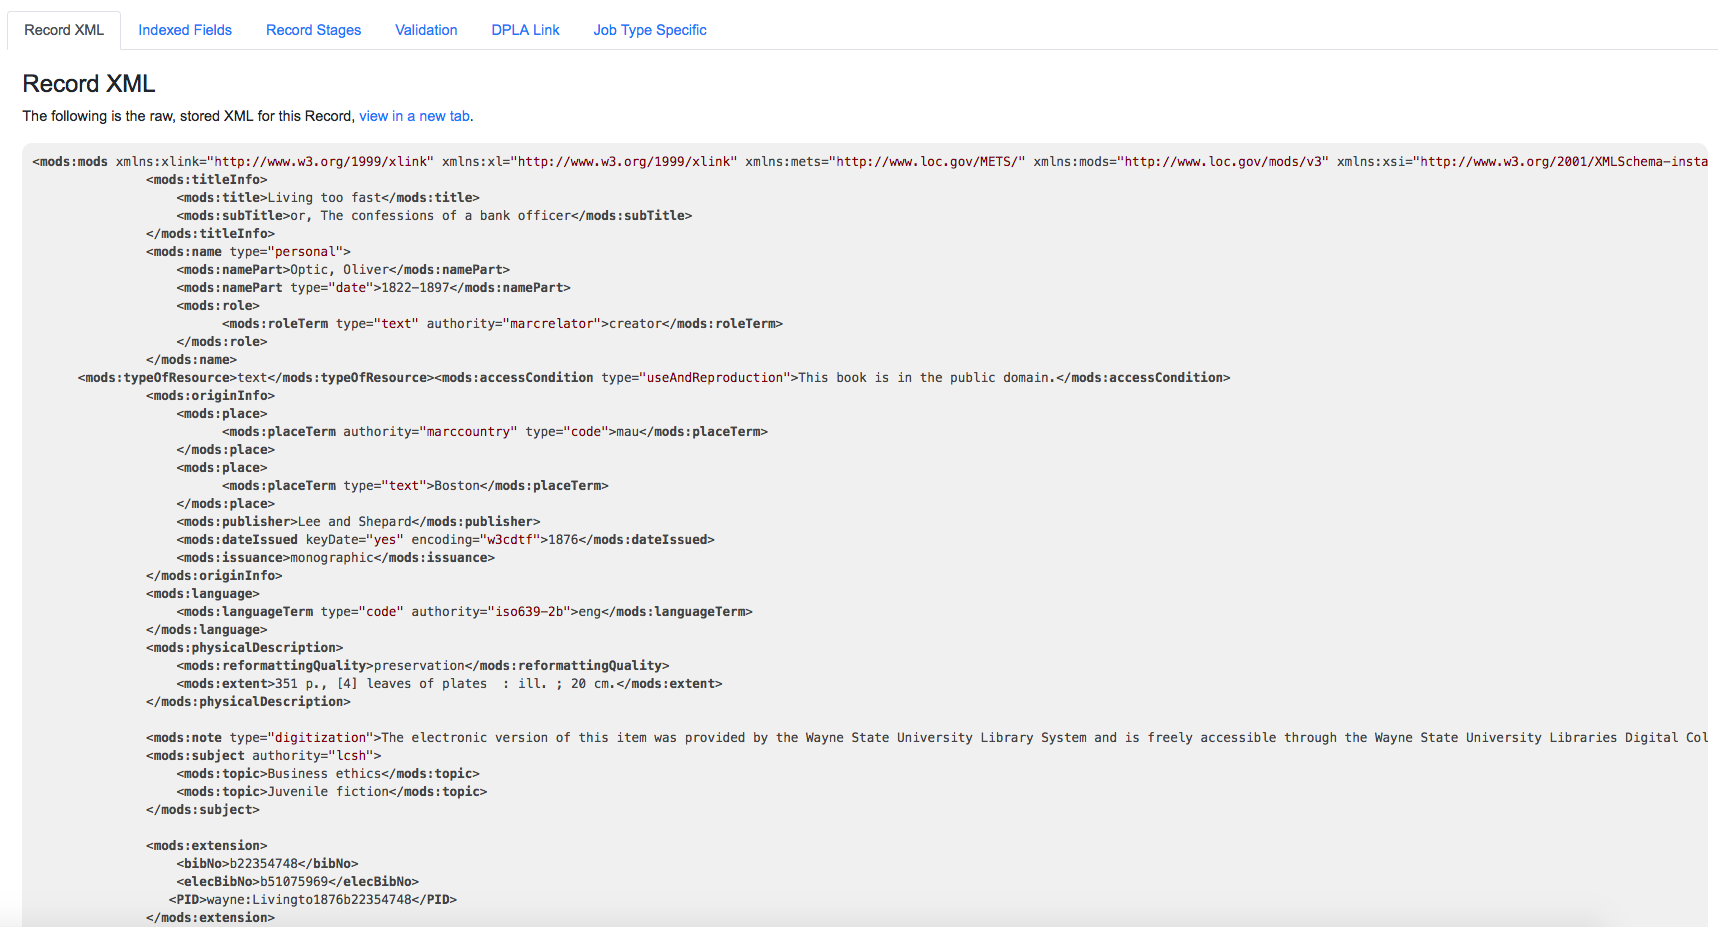
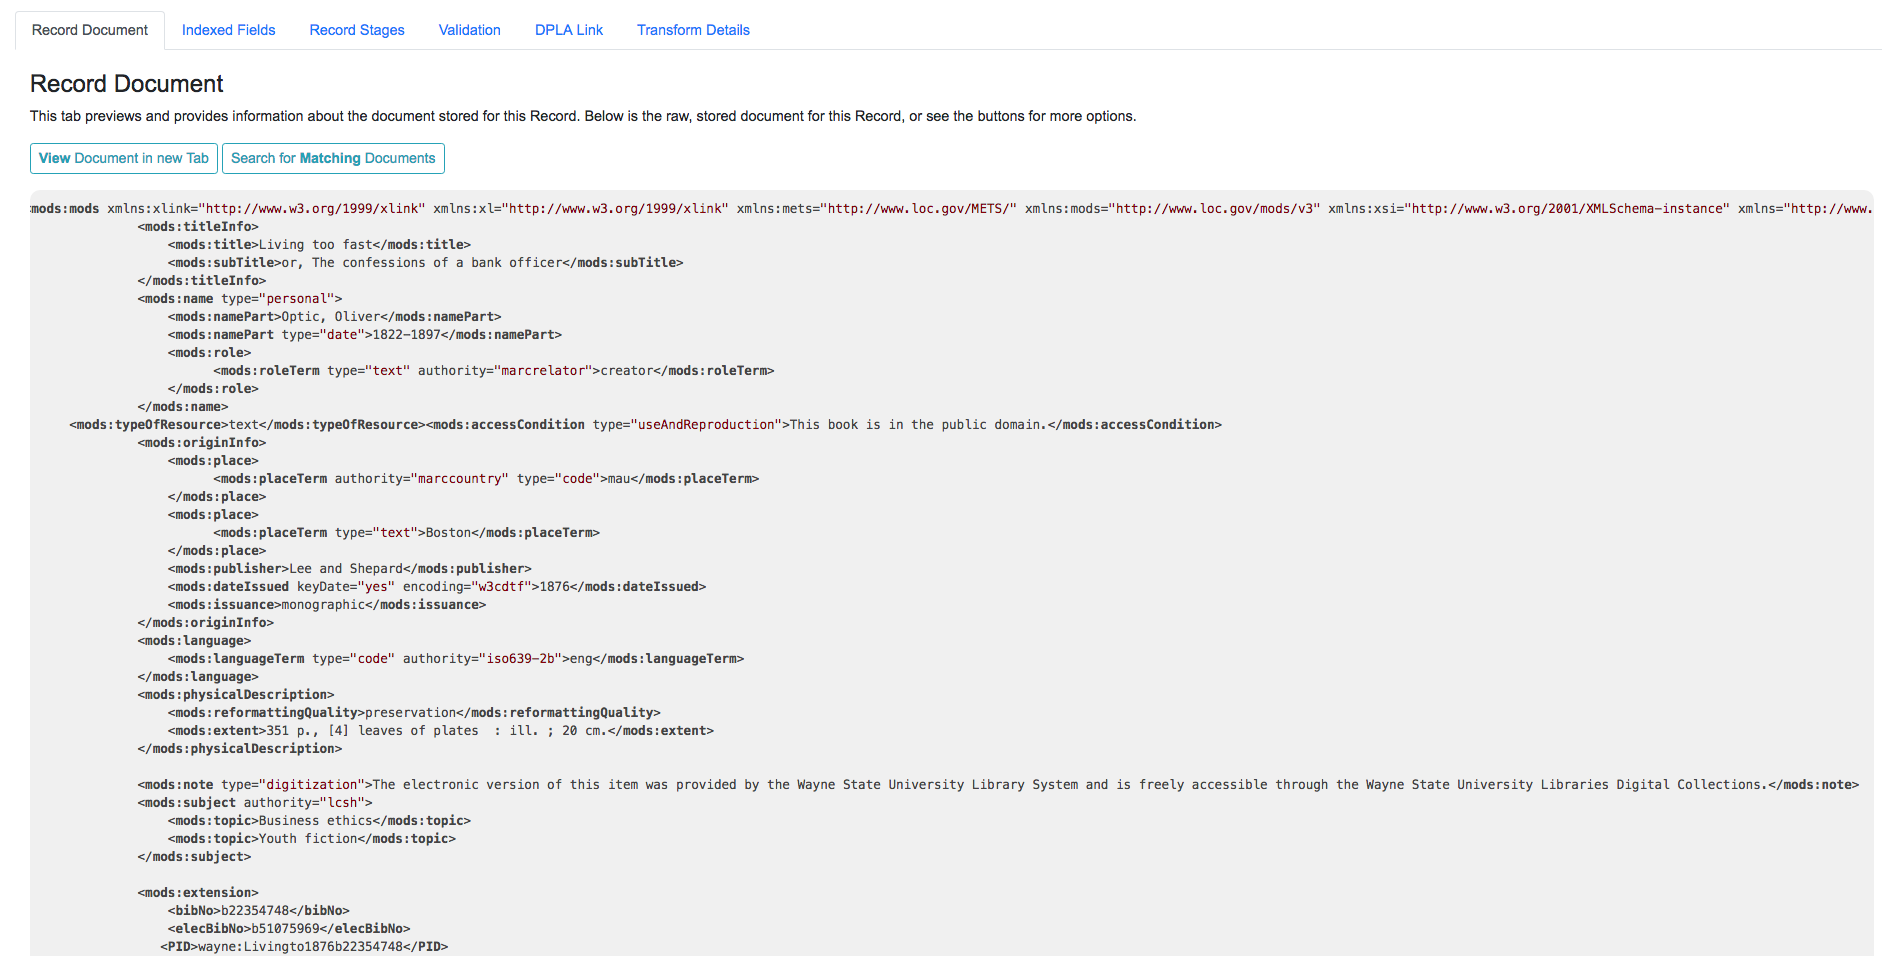
updating docs

Changed region(s): [[0.0, 0.0, 1.0, 0.9968]]

diff --git a/docs/workflow.rst b/docs/workflow.rst
@@ -352,6 +352,11 @@ This tab provides a glimpse at the raw, XML for a Record:
 
    Record's document
 
+Note also two buttons for this tab:
+
+  - ``View Document in New Tab`` This will show the raw XML in a new browser tab
+  - ``Search for Matching Documents``: This will search all Records in Combine for other Records with an *identical* XML document
+
 
 Indexed Fields
 --------------
